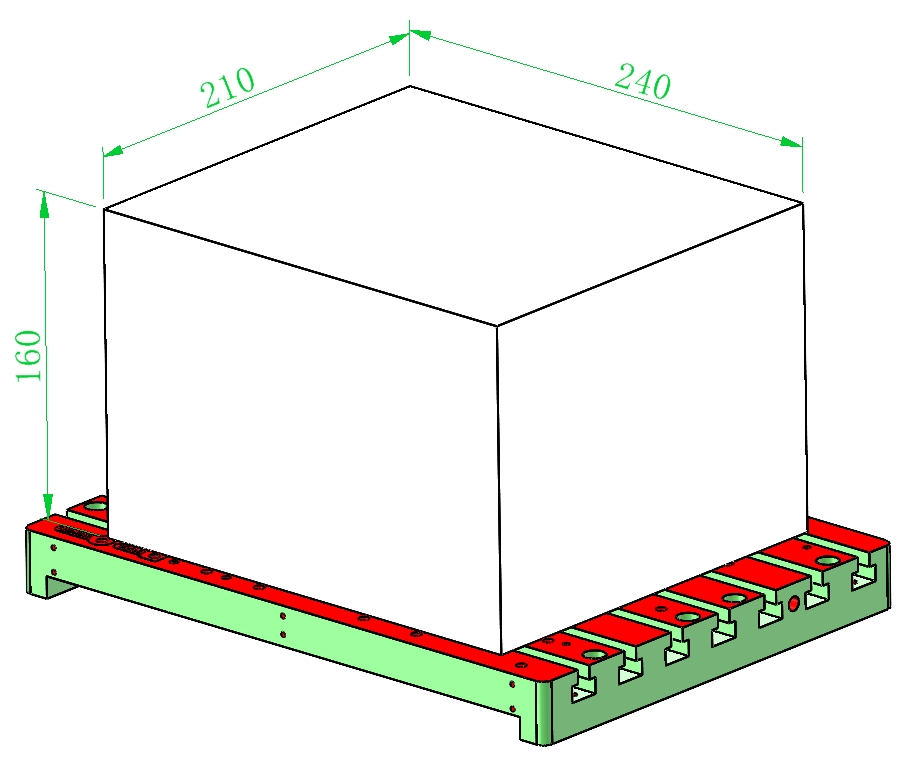
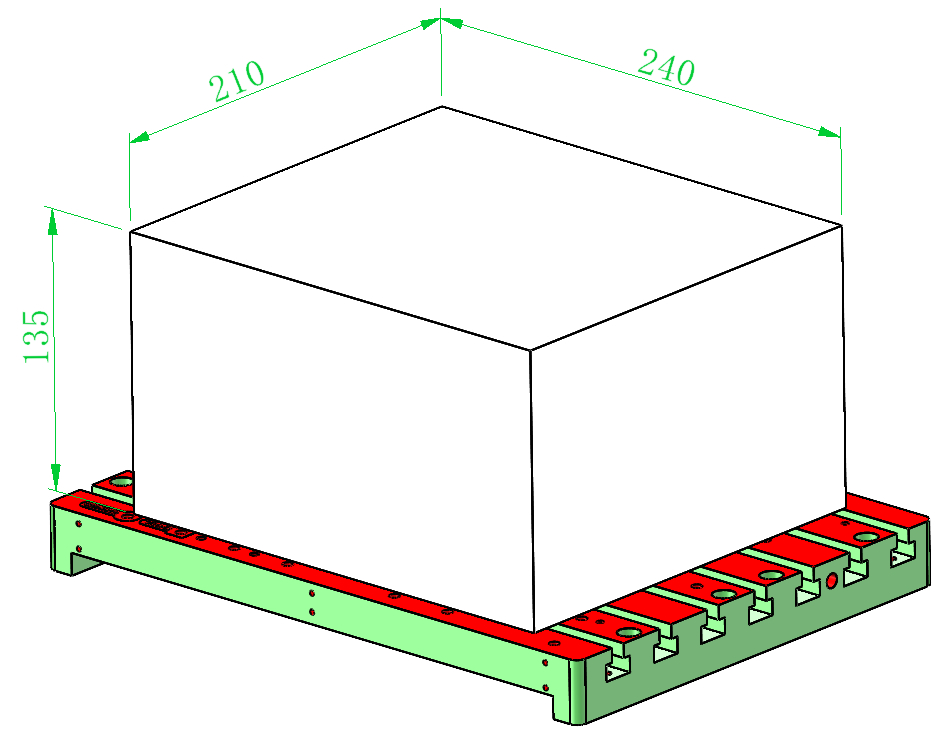
参数更新

diff --git a/English/Hardware/06 Technical Specifications/03 Power Supply Specifications.md b/English/Hardware/06 Technical Specifications/03 Power Supply Specifications.md
@@ -5,7 +5,7 @@
 | Spindle Power       | 800 W         |
 | Power source        | 110-240VAC    |
 | Operating Frequency | 50/60 Hz      |
-| Total Power         | 1.6 kW        |
-| Full Load Current   | 10 A Max      |
+| Total Power         | 2 kW          |
+| Full Load Current   | 16 A Max      |
 | Phases              | Single-Phase  |
 

diff --git a/中文/硬件/06 技术参数/03 电源参数.md b/中文/硬件/06 技术参数/03 电源参数.md
@@ -5,8 +5,8 @@
 | 主轴功率 | 800 W       |
 | 电源输入 | 110-240 VAC |
 | 工作频率 | 50/60 Hz    |
-| 总功率  | 1.6 kW      |
-| 满载电流 | 最大 10 A     |
+| 总功率  | 2 kW        |
+| 满载电流 | 最大 16 A     |
 | 电源相数 | 单相          |
   
 
